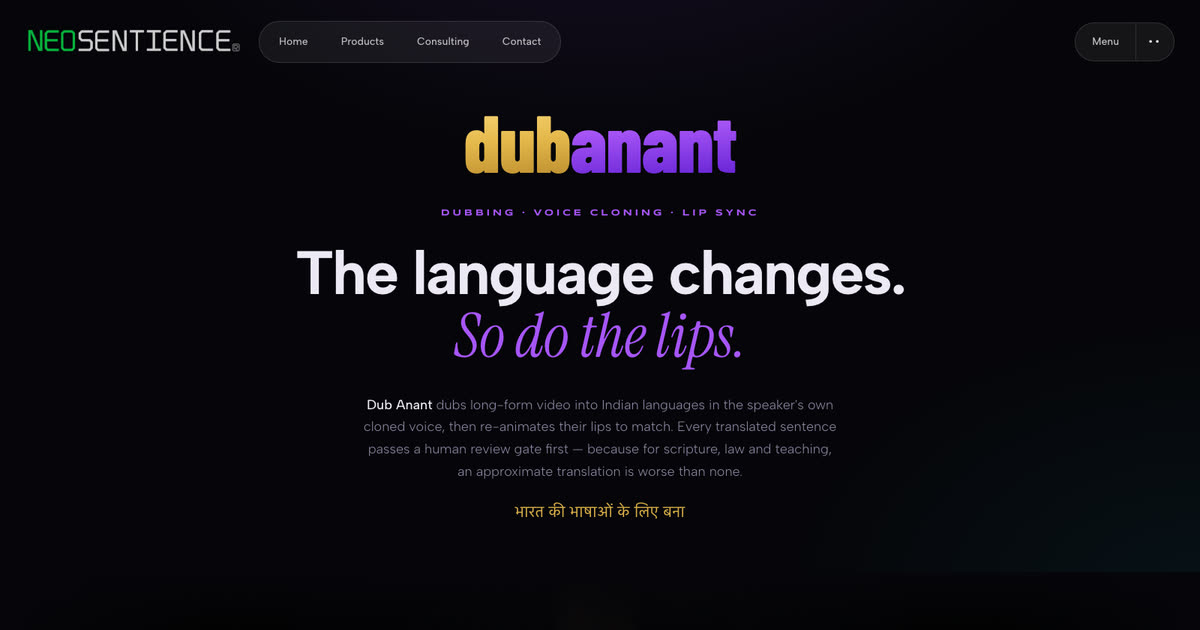
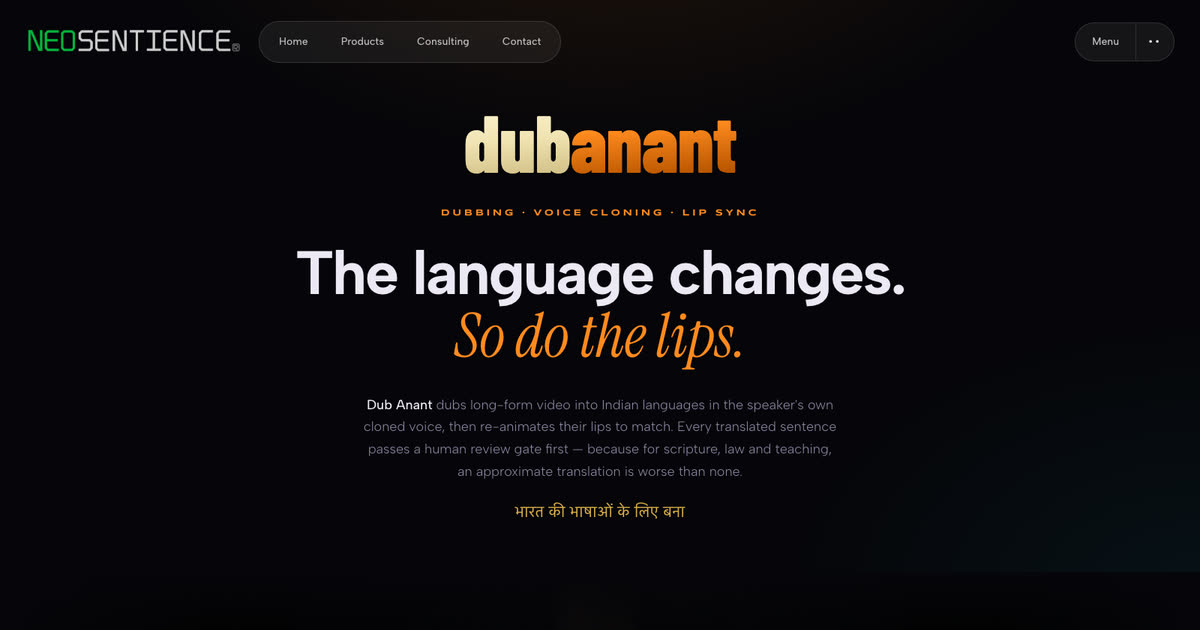
Dub Anant: ivory + saffron logotype; product colour coding switched from purple to saffron on all pages

Changed region(s): [[0.37, 0.4825, 0.6167, 0.6032], [0.37, 0.181, 0.6167, 0.3016], [0.37, 0.3317, 0.6167, 0.3619]]

diff --git a/dub-anant.html b/dub-anant.html
@@ -41,11 +41,11 @@
   --ink-faint:#7f7397;
   --line:rgba(255,255,255,.09);
 
-  --violet:#a855f7;
+  --violet:#ff8a1f;
   --gold:#e0b34a;
   --green:#3ee089;
   --cyan:#22d3ee;
-  --grad:linear-gradient(120deg,#a855f7,#8f6ae0,#e0b34a);
+  --grad:linear-gradient(120deg,#ff8a1f,#e9a13a,#f1e3b3);
   /* ── structural rhythm (shared across every Neosentience page) ── */
   --wrap:1240px;
   --sp-section:64px;   /* symmetric: 128px between sections, no inline collapses */
@@ -58,7 +58,7 @@ html,body{background:var(--bg);color:var(--ink);
   font-family:'Albert Sans',-apple-system,sans-serif;font-weight:300;line-height:1.6;
   -webkit-font-smoothing:antialiased;overflow-x:hidden}
 body{background-image:
-  radial-gradient(ellipse 1100px 700px at 50% -220px,rgba(168,85,247,.13),transparent 62%),
+  radial-gradient(ellipse 1100px 700px at 50% -220px,rgba(255,138,31,.13),transparent 62%),
   radial-gradient(ellipse 900px 600px at 100% 800px,rgba(34,211,238,.06),transparent 62%);}
 img{max-width:100%;display:block}
 a{color:inherit;text-decoration:none}
@@ -78,7 +78,7 @@ nav{position:fixed;top:0;left:0;right:0;z-index:100;
 .hero-logo{width:380px;max-width:80%;height:auto;margin:0 auto 30px}
 .pill{display:inline-flex;align-items:center;gap:10px;margin-bottom:28px;
   padding:8px 16px;border-radius:999px;
-  background:rgba(168,85,247,.1);border:1px solid rgba(168,85,247,.32);
+  background:rgba(255,138,31,.1);border:1px solid rgba(255,138,31,.32);
   font-family:'Albert Sans',system-ui,sans-serif;font-size:11.5px;letter-spacing:.16em;
   text-transform:uppercase;color:var(--violet);font-weight:600}
 .dot{width:6px;height:6px;border-radius:50%;background:var(--violet);
@@ -187,7 +187,7 @@ h2 em{font-family:'Instrument Serif',serif;font-weight:400;font-style:italic;
 .ps{padding:18px 12px;border-radius:18px;border:1px solid var(--line);
   background:linear-gradient(180deg,var(--panel),rgba(10,8,16,.7));text-align:center;
   transition:all .3s}
-.ps:hover{border-color:rgba(168,85,247,.35);transform:translateY(-2px)}
+.ps:hover{border-color:rgba(255,138,31,.35);transform:translateY(-2px)}
 .ps.gatestep{border-color:rgba(224,179,74,.45);background:rgba(224,179,74,.07)}
 .ps-n{font-family:'JetBrains Mono',monospace;font-size:9px;letter-spacing:.16em;
   color:var(--ink-faint);margin-bottom:9px;font-weight:600}
@@ -199,7 +199,7 @@ h2 em{font-family:'Instrument Serif',serif;font-weight:400;font-style:italic;
 .diffs{margin-top:46px;display:grid;grid-template-columns:repeat(2,1fr);gap:14px}
 .diff{padding:26px 24px;border-radius:22px;border:1px solid var(--line);
   background:rgba(255,255,255,.018);transition:all .3s}
-.diff:hover{border-color:rgba(168,85,247,.3);background:rgba(168,85,247,.04)}
+.diff:hover{border-color:rgba(255,138,31,.3);background:rgba(255,138,31,.04)}
 .diff-t{font-family:'Albert Sans',system-ui,sans-serif;font-size:13px;letter-spacing:.14em;
   text-transform:uppercase;color:var(--violet);font-weight:600;margin-bottom:14px}
 .diff h4{font-size:17px;font-weight:600;letter-spacing:-.012em;margin-bottom:8px}
@@ -224,15 +224,15 @@ h2 em{font-family:'Instrument Serif',serif;font-weight:400;font-style:italic;
 
 /* close */
 .cta{padding:var(--sp-section) 0;text-align:center;border-top:1px solid var(--line);
-  background:radial-gradient(ellipse 700px 340px at 50% 40%,rgba(168,85,247,.09),transparent 70%)}
+  background:radial-gradient(ellipse 700px 340px at 50% 40%,rgba(255,138,31,.09),transparent 70%)}
 .cta h2{margin:0 auto 20px}
 .cta p{font-size:15px;color:var(--ink-dim);max-width:540px;margin:0 auto 30px}
 .btn{display:inline-flex;align-items:center;gap:11px;padding:15px 30px;border-radius:999px;
   background:var(--violet);color:#12031f;
   font-family:'Albert Sans',system-ui,sans-serif;font-size:11.5px;letter-spacing:.16em;
   text-transform:uppercase;font-weight:600;
-  transition:transform .3s,box-shadow .3s;box-shadow:0 8px 30px rgba(168,85,247,.3)}
-.btn:hover{transform:translateY(-2px);box-shadow:0 12px 42px rgba(168,85,247,.45)}
+  transition:transform .3s,box-shadow .3s;box-shadow:0 8px 30px rgba(255,138,31,.3)}
+.btn:hover{transform:translateY(-2px);box-shadow:0 12px 42px rgba(255,138,31,.45)}
 
 footer{padding:44px 0 56px;border-top:1px solid var(--line)}
 .frow{display:flex;justify-content:space-between;align-items:center;gap:24px;flex-wrap:wrap}
@@ -290,7 +290,7 @@ footer{padding:44px 0 56px;border-top:1px solid var(--line)}
 }
 
 /* ═════════ HOUSE LAYER — shared with the homepage: type, nav, buttons, labels ═════════ */
-:root{--acc:var(--violet);--acc-ink:#12031f;--c-digisapien:#3ee089;--c-nyaya:#4a6cff;--c-chatdj:#ff3d81;--c-dubanant:#a855f7;--c-qrator:#ffb84a;--c-magiq:#00d4ff;--h-ease:cubic-bezier(.16,1,.3,1)}
+:root{--acc:var(--violet);--acc-ink:#1f0d00;--c-digisapien:#3ee089;--c-nyaya:#4a6cff;--c-chatdj:#ff3d81;--c-dubanant:#ff8a1f;--c-qrator:#ffb84a;--c-magiq:#00d4ff;--h-ease:cubic-bezier(.16,1,.3,1)}
 html,body{font-family:'Albert Sans',system-ui,sans-serif;font-weight:300}
 h1,h2,h3,h4{font-family:'Albert Sans',system-ui,sans-serif}
 h1 em,h2 em,.hero h1 em,.hero-title em,h2.section-title em,.tech-name em,.section h2 em,.cta h2 em,.stat-num,.deg-n,.a-n,.market-headline strong,.market-quote-body strong{

diff --git a/digisapien.html b/digisapien.html
@@ -507,7 +507,7 @@ footer{padding:44px 0 56px;border-top:1px solid var(--line)}
 }
 
 /* ═════════ HOUSE LAYER — shared with the homepage: type, nav, buttons, labels ═════════ */
-:root{--acc:var(--accent);--acc-ink:#06170d;--c-digisapien:#3ee089;--c-nyaya:#4a6cff;--c-chatdj:#ff3d81;--c-dubanant:#a855f7;--c-qrator:#ffb84a;--c-magiq:#00d4ff;--h-ease:cubic-bezier(.16,1,.3,1)}
+:root{--acc:var(--accent);--acc-ink:#06170d;--c-digisapien:#3ee089;--c-nyaya:#4a6cff;--c-chatdj:#ff3d81;--c-dubanant:#ff8a1f;--c-qrator:#ffb84a;--c-magiq:#00d4ff;--h-ease:cubic-bezier(.16,1,.3,1)}
 html,body{font-family:'Albert Sans',system-ui,sans-serif;font-weight:300}
 h1,h2,h3,h4{font-family:'Albert Sans',system-ui,sans-serif}
 h1 em,h2 em,.hero h1 em,.hero-title em,h2.section-title em,.tech-name em,.section h2 em,.cta h2 em,.stat-num,.deg-n,.a-n,.market-headline strong,.market-quote-body strong{

diff --git a/magiq-360.html b/magiq-360.html
@@ -367,7 +367,7 @@ footer{padding:44px 0 56px;border-top:1px solid var(--line)}
 }
 
 /* ═════════ HOUSE LAYER — shared with the homepage: type, nav, buttons, labels ═════════ */
-:root{--acc:var(--accent);--acc-ink:#00212e;--c-digisapien:#3ee089;--c-nyaya:#4a6cff;--c-chatdj:#ff3d81;--c-dubanant:#a855f7;--c-qrator:#ffb84a;--c-magiq:#00d4ff;--h-ease:cubic-bezier(.16,1,.3,1)}
+:root{--acc:var(--accent);--acc-ink:#00212e;--c-digisapien:#3ee089;--c-nyaya:#4a6cff;--c-chatdj:#ff3d81;--c-dubanant:#ff8a1f;--c-qrator:#ffb84a;--c-magiq:#00d4ff;--h-ease:cubic-bezier(.16,1,.3,1)}
 html,body{font-family:'Albert Sans',system-ui,sans-serif;font-weight:300}
 h1,h2,h3,h4{font-family:'Albert Sans',system-ui,sans-serif}
 h1 em,h2 em,.hero h1 em,.hero-title em,h2.section-title em,.tech-name em,.section h2 em,.cta h2 em,.stat-num,.deg-n,.a-n,.market-headline strong,.market-quote-body strong{

diff --git a/qrator.html b/qrator.html
@@ -767,7 +767,7 @@ footer{padding:44px 0 56px;border-top:1px solid var(--line)}
 }
 
 /* ═════════ HOUSE LAYER — shared with the homepage: type, nav, buttons, labels ═════════ */
-:root{--acc:var(--accent);--acc-ink:#1f1200;--c-digisapien:#3ee089;--c-nyaya:#4a6cff;--c-chatdj:#ff3d81;--c-dubanant:#a855f7;--c-qrator:#ffb84a;--c-magiq:#00d4ff;--h-ease:cubic-bezier(.16,1,.3,1)}
+:root{--acc:var(--accent);--acc-ink:#1f1200;--c-digisapien:#3ee089;--c-nyaya:#4a6cff;--c-chatdj:#ff3d81;--c-dubanant:#ff8a1f;--c-qrator:#ffb84a;--c-magiq:#00d4ff;--h-ease:cubic-bezier(.16,1,.3,1)}
 html,body{font-family:'Albert Sans',system-ui,sans-serif;font-weight:300}
 h1,h2,h3,h4{font-family:'Albert Sans',system-ui,sans-serif}
 h1 em,h2 em,.hero h1 em,.hero-title em,h2.section-title em,.tech-name em,.section h2 em,.cta h2 em,.stat-num,.deg-n,.a-n,.market-headline strong,.market-quote-body strong{

diff --git a/chat-dj.html b/chat-dj.html
@@ -371,7 +371,7 @@ footer{padding:44px 0 56px;border-top:1px solid var(--line)}
 }
 
 /* ═════════ HOUSE LAYER — shared with the homepage: type, nav, buttons, labels ═════════ */
-:root{--acc:var(--pink);--acc-ink:#2a0512;--c-digisapien:#3ee089;--c-nyaya:#4a6cff;--c-chatdj:#ff3d81;--c-dubanant:#a855f7;--c-qrator:#ffb84a;--c-magiq:#00d4ff;--h-ease:cubic-bezier(.16,1,.3,1)}
+:root{--acc:var(--pink);--acc-ink:#2a0512;--c-digisapien:#3ee089;--c-nyaya:#4a6cff;--c-chatdj:#ff3d81;--c-dubanant:#ff8a1f;--c-qrator:#ffb84a;--c-magiq:#00d4ff;--h-ease:cubic-bezier(.16,1,.3,1)}
 html,body{font-family:'Albert Sans',system-ui,sans-serif;font-weight:300}
 h1,h2,h3,h4{font-family:'Albert Sans',system-ui,sans-serif}
 h1 em,h2 em,.hero h1 em,.hero-title em,h2.section-title em,.tech-name em,.section h2 em,.cta h2 em,.stat-num,.deg-n,.a-n,.market-headline strong,.market-quote-body strong{

diff --git a/nyaya-sahayak.html b/nyaya-sahayak.html
@@ -322,7 +322,7 @@ footer{padding:44px 0 56px;border-top:1px solid var(--line)}
 }
 
 /* ═════════ HOUSE LAYER — shared with the homepage: type, nav, buttons, labels ═════════ */
-:root{--acc:var(--blue);--acc-ink:#eef2ff;--c-digisapien:#3ee089;--c-nyaya:#4a6cff;--c-chatdj:#ff3d81;--c-dubanant:#a855f7;--c-qrator:#ffb84a;--c-magiq:#00d4ff;--h-ease:cubic-bezier(.16,1,.3,1)}
+:root{--acc:var(--blue);--acc-ink:#eef2ff;--c-digisapien:#3ee089;--c-nyaya:#4a6cff;--c-chatdj:#ff3d81;--c-dubanant:#ff8a1f;--c-qrator:#ffb84a;--c-magiq:#00d4ff;--h-ease:cubic-bezier(.16,1,.3,1)}
 html,body{font-family:'Albert Sans',system-ui,sans-serif;font-weight:300}
 h1,h2,h3,h4{font-family:'Albert Sans',system-ui,sans-serif}
 h1 em,h2 em,.hero h1 em,.hero-title em,h2.section-title em,.tech-name em,.section h2 em,.cta h2 em,.stat-num,.deg-n,.a-n,.market-headline strong,.market-quote-body strong{

diff --git a/index.html b/index.html
@@ -47,7 +47,7 @@
   --c-digisapien:#3ee089;
   --c-nyaya:#4a6cff;
   --c-chatdj:#ff3d81;
-  --c-dubanant:#a855f7;
+  --c-dubanant:#ff8a1f;
   --c-qrator:#ffb84a;
   --c-magiq:#00d4ff;
 

diff --git a/neosentience.html b/neosentience.html
@@ -47,7 +47,7 @@
   --c-digisapien:#3ee089;
   --c-nyaya:#4a6cff;
   --c-chatdj:#ff3d81;
-  --c-dubanant:#a855f7;
+  --c-dubanant:#ff8a1f;
   --c-qrator:#ffb84a;
   --c-magiq:#00d4ff;
 
